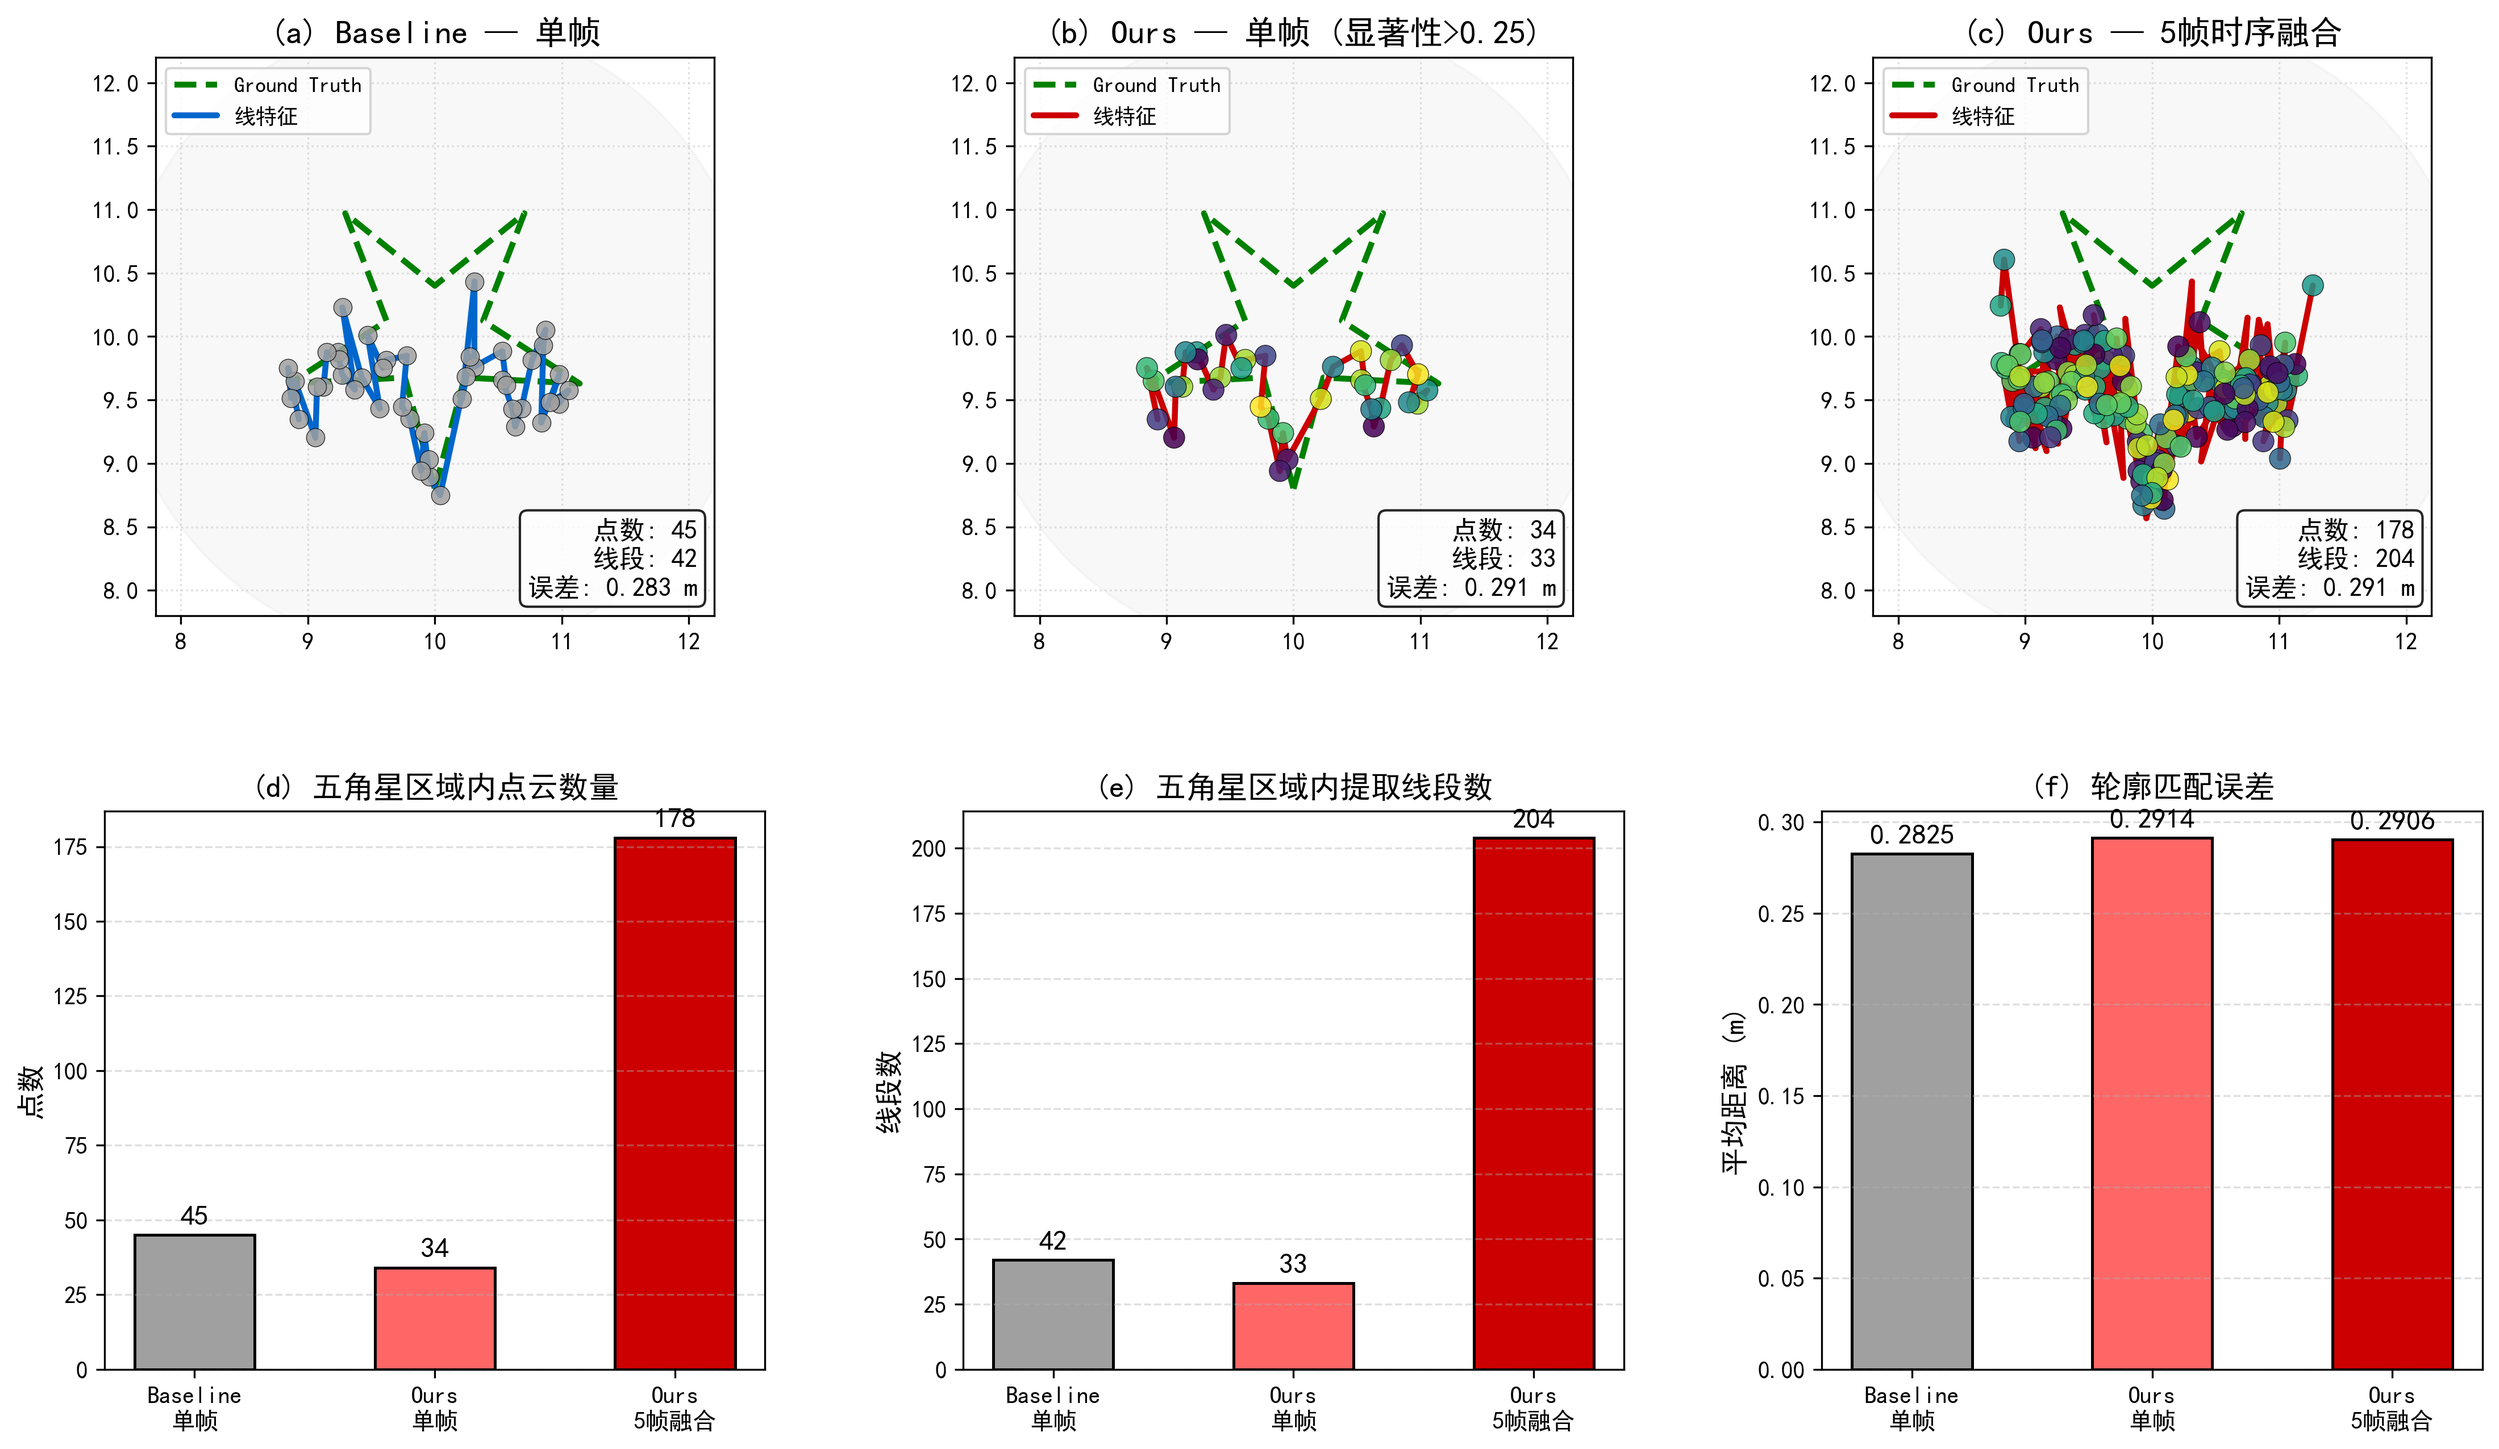
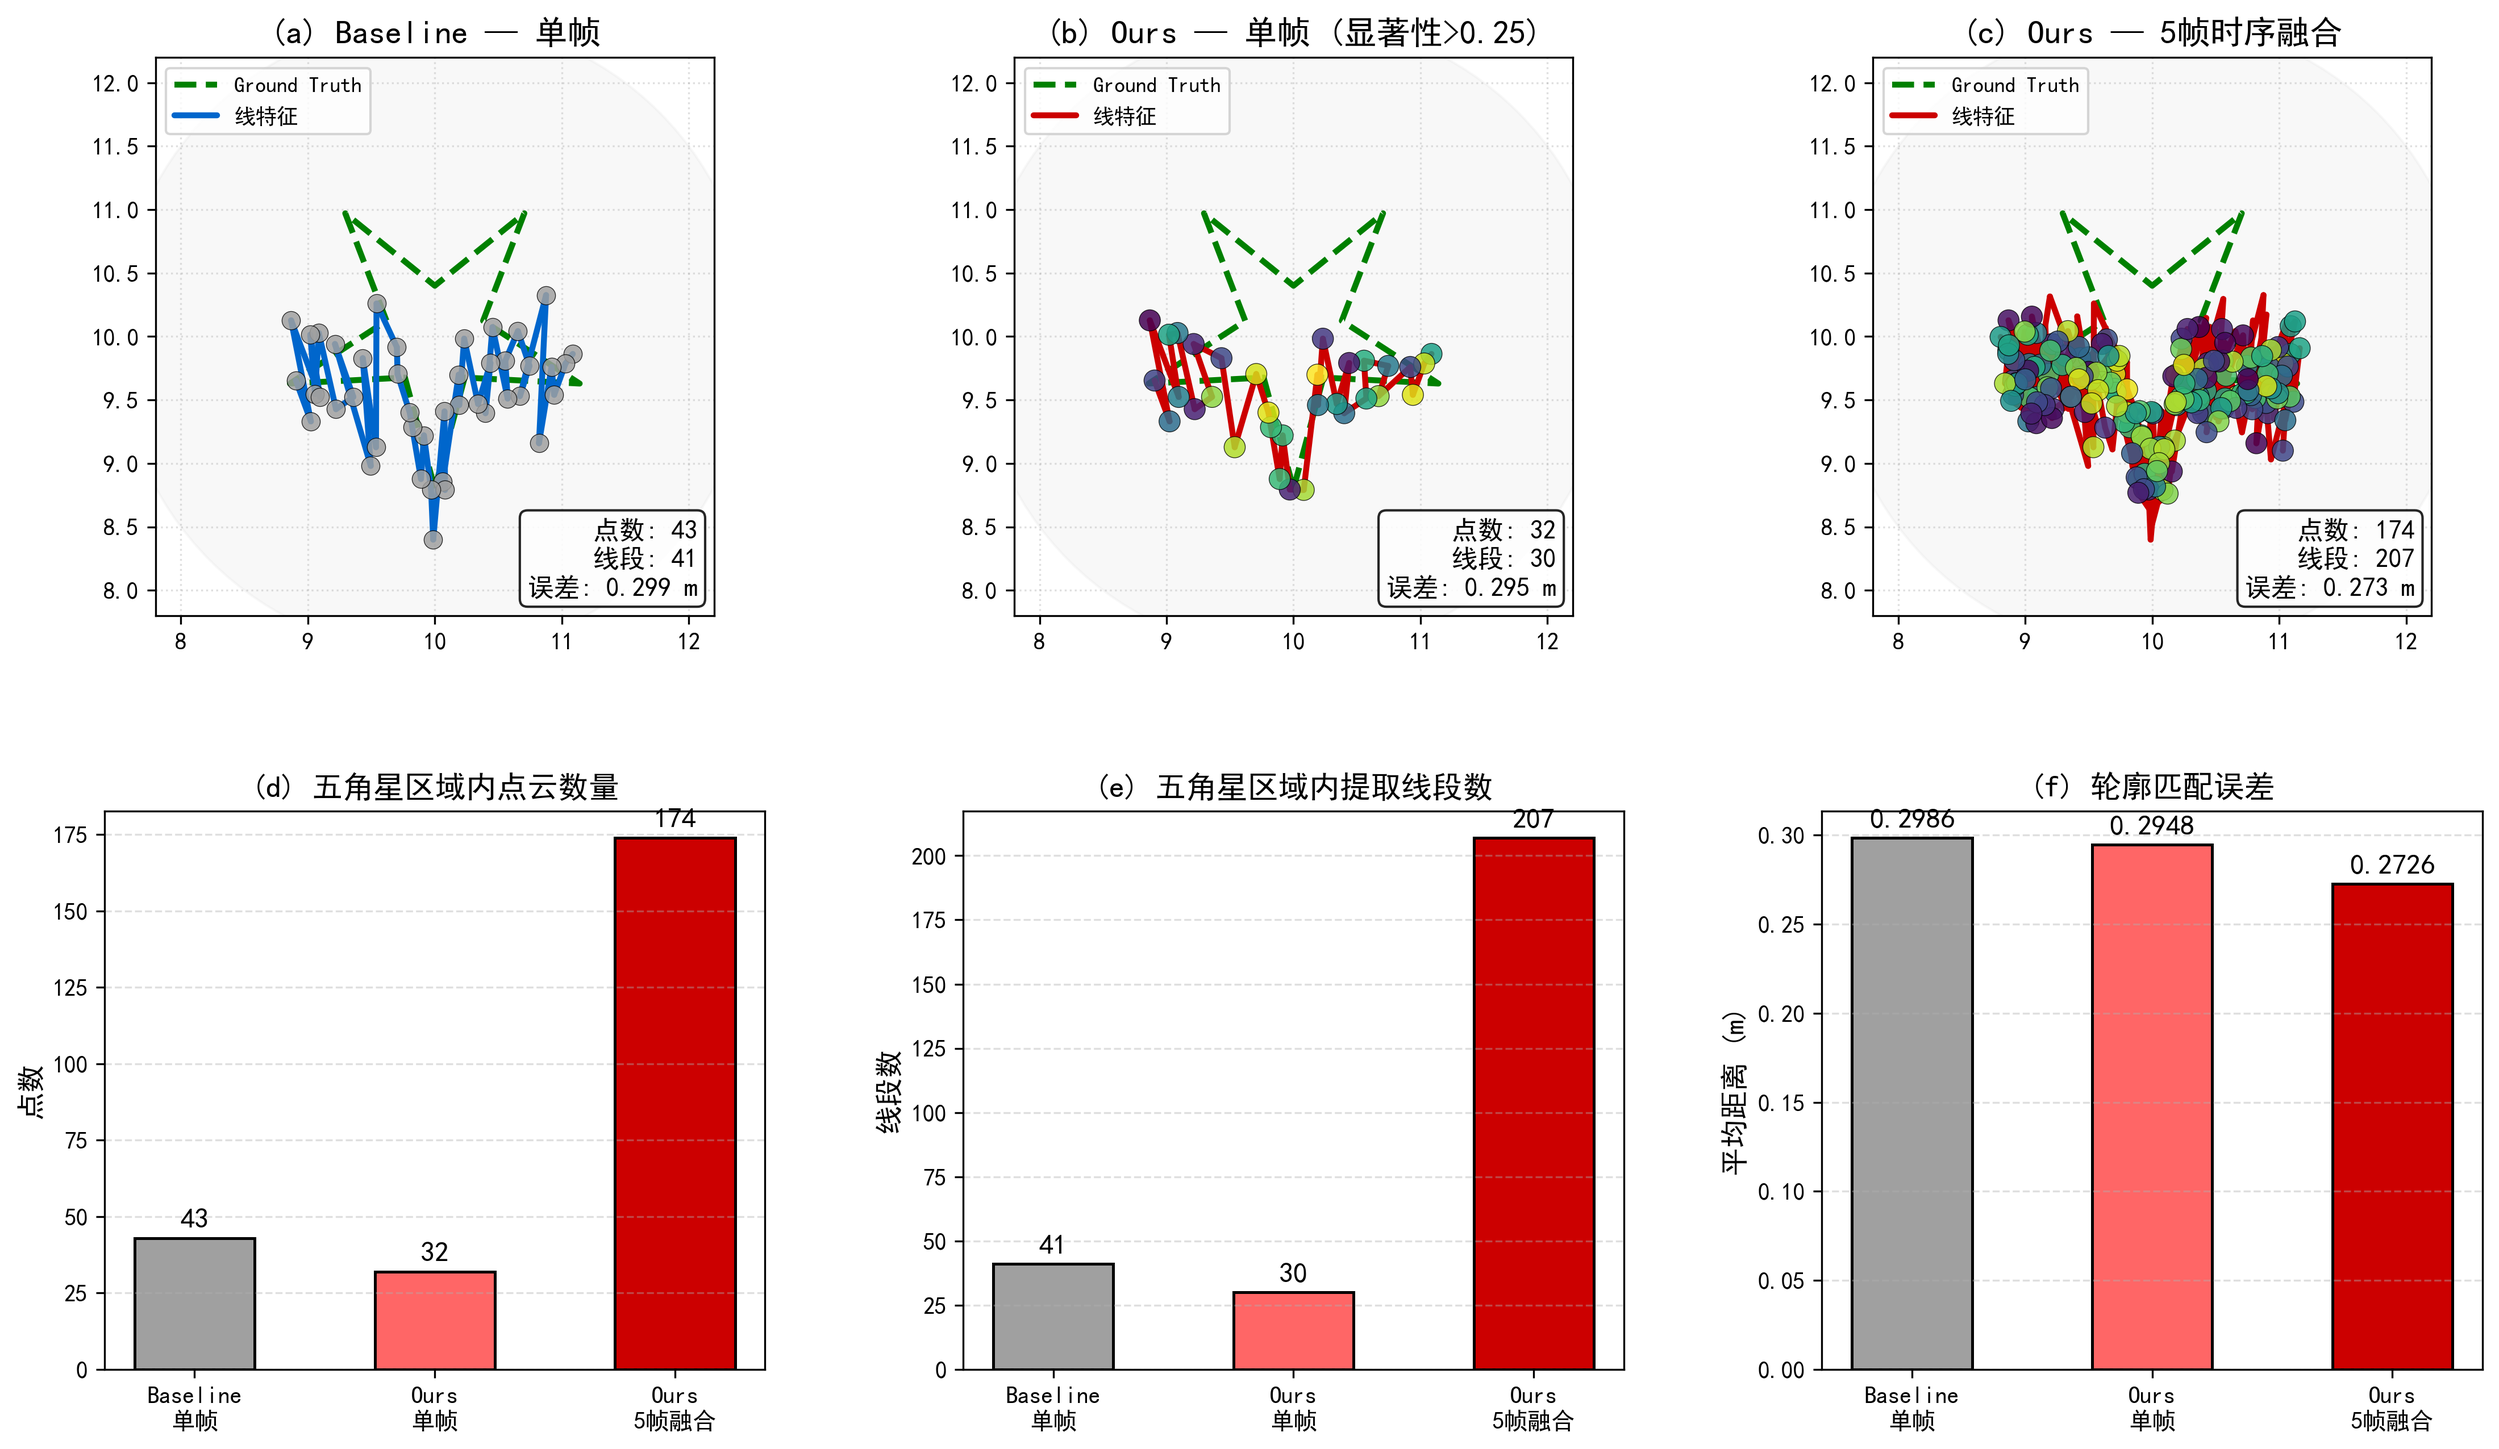
修改

diff --git a/README.md b/README.md
@@ -135,13 +135,13 @@ python evaluation.py
   <img src="paper_comparison.png" width="80%" alt="对比实验">
 </p>
 
-### 定量对比（高噪声环境）
+### 定量对比（高噪声环境，星形 R=1.2m）
 
 | 指标               | Baseline | Ours 单帧 | Ours 5帧融合 | 提升  |
 | ------------------ | -------- | --------- | ------------ | ----- |
-| 五角星区域内点数   | 23       | 16        | 84           | 3.7× |
-| 五角星区域内线段数 | 21       | 15        | 104          | 4.9× |
-| 轮廓匹配误差 (m)   | 0.206    | 0.203     | 0.193        | −6%  |
+| 五角星区域内点数   | 43       | 32        | 174          | 4.0× |
+| 五角星区域内线段数 | 41       | 30        | 207          | 5.0× |
+| 轮廓匹配误差 (m)   | 0.299    | 0.295     | 0.273        | −8.7%  |
 
 ### 关键优化
 
